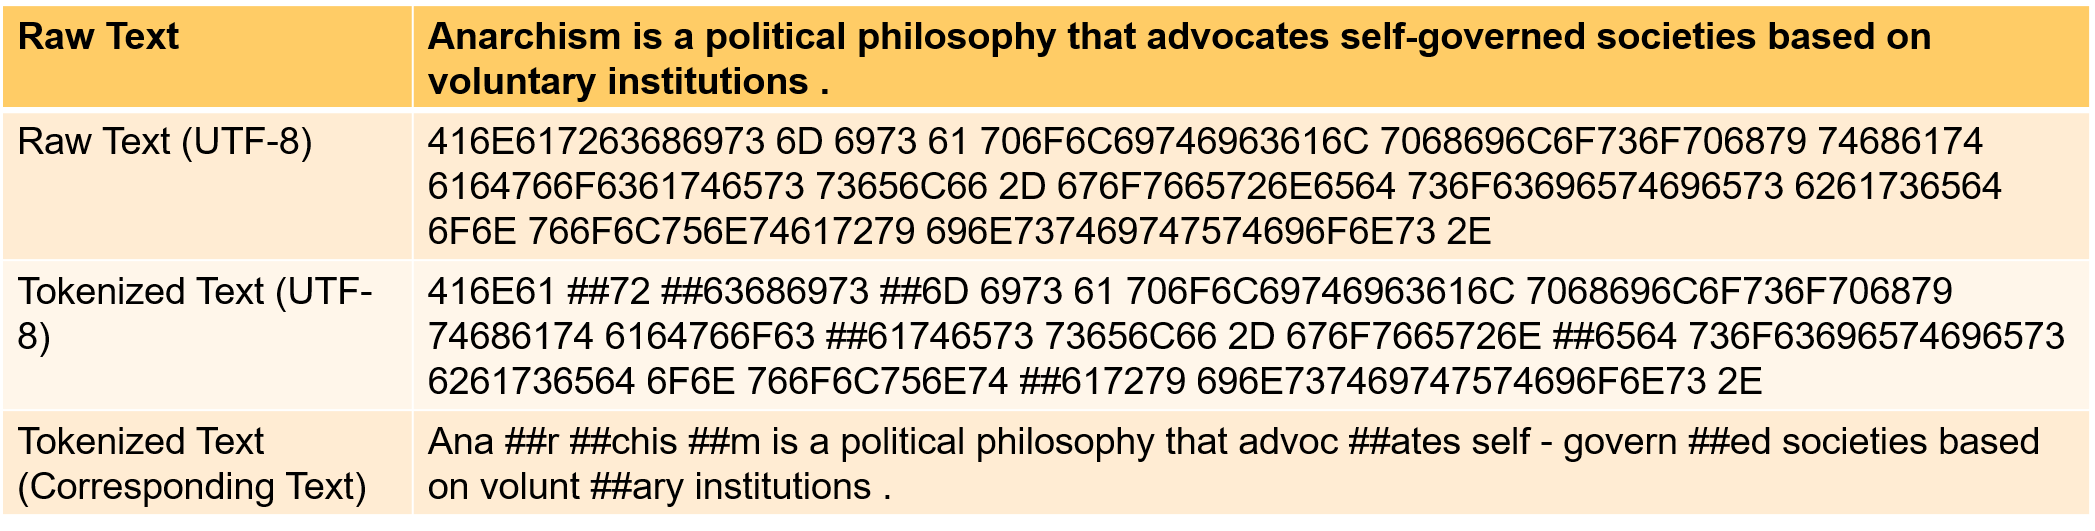
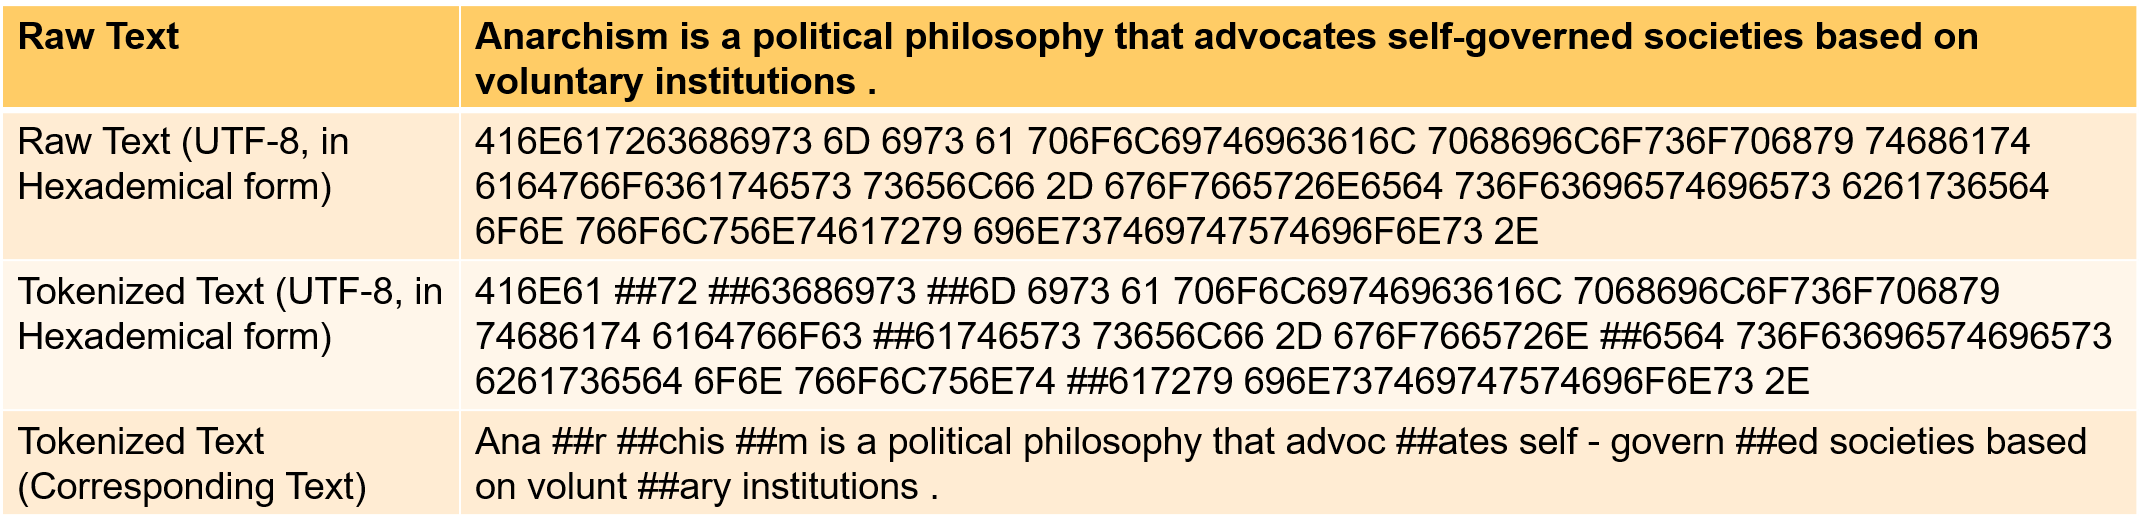
Add files via upload

diff --git a/BBPE/tokenizationBBPE.py b/BBPE/tokenizationBBPE.py
@@ -311,7 +311,7 @@ class BasicTokenizer(object):
     # and generally don't have any Chinese data in them (there are Chinese
     # characters in the vocabulary because Wikipedia does have some Chinese
     # words in the English Wikipedia.).
-    text = self._tokenize_chinese_chars(text)
+    if self.CJK_tokenize == False: text = self._tokenize_chinese_chars(text)
 
     orig_tokens = whitespace_tokenize(text)
     split_tokens = []

diff --git a/BBPE/README.md b/BBPE/README.md
@@ -3,7 +3,10 @@
 
 ## Introduction
 
-In this project, we provide a byte-level vocabulary building tool and its correspoinding tokenizer. We employed a technique, namely Byte-Level Byte Pair Encoding (BBPE) in building the vocabulary. Specifically, this BBPE first converts the text into its corresponding UTF-8 codes and then applies \emph{Byte Pair Encoding (BPE)} on the UTF-8 codes. There are strong experimental evidences showing that building the multilingual vocabulary in a byte-level will largely encourage the sharing of subwords among different words in a fine-grain, as a result of which, the learning of the representations of rare words could be improved. To intuitively give an idea of this BBPE, we demonstrate an example in the figure. In this figure, there are four lines which correspond to the raw text, the UTF-8 encoding of the text, the tokenized UTF-8 encoidng of the text and the corresponding text of the tokenized UTF-8 encoding, respectively. Each word contains several characters and we convert each character into bytes and preserve the boundary of each word (i.e., whitespace). By applying BPE to the UTF-8 encoding of the text, we obain a byte-level vocabulary. The tokenization using the vocabulary is shown in the third line and the last line shows the corresponding text of the tokenized UTF-8 encoding. Note that the symbol "##" denotes the subword is an trailing subword (i.e., the subword is not in beginning of the word it belongs to). 
+In this project, we provide a byte-level vocabulary building tool and its correspoinding tokenizer. We employed a technique, namely Byte-Level Byte Pair Encoding (BBPE) in building the vocabulary. Specifically, this BBPE first converts the text into its corresponding UTF-8 codes and then applies Byte Pair Encoding (BPE) on the UTF-8 codes. There are strong experimental evidences showing that building the multilingual vocabulary in a byte-level will largely encourage the sharing of subwords among different words in a fine-grain, as a result of which, the learning of the representations of rare words could be improved. To intuitively give an idea of this BBPE, we demonstrate an example in the figure example.png. In this figure, there are four lines which correspond to the raw text, the UTF-8 encoding of the text, the tokenized UTF-8 encoidng of the text and the corresponding text of the tokenized UTF-8 encoding, respectively. Each word contains several characters and we convert each character into bytes and preserve the boundary of each word (i.e., whitespace). By applying BPE to the UTF-8 encoding of the text, we obain a byte-level vocabulary. The tokenization using the vocabulary is shown in the third line and the last line shows the corresponding text of the tokenized UTF-8 encoding. Note that the symbol "##" denotes the subword is an trailing subword (i.e., the subword is not in beginning of the word it belongs to). We refer the readers to our technical report for more details (https://arxiv.org/abs/2101.09469).
+
+<img src="example.png" width="1000" height="320"/>
+<br />
 
 This project contains two parts: A. BBPE vocabulary building B. byte-level tokenizer
 
@@ -16,16 +19,19 @@ unzip bbbp.zip and go to the folder bbpe and perform the following steps.
 
 * the step converts raw text into its corresponding UTF-8 codes and assumes that the raw text files are under the folder 'MTData' and the converted files are under the folder 'MTData_byte'. The converted files will be used to build the vocabulary. Under the folder, there is a file 'protectList.tx' which contains several protected words such as '=NUMBER='，'=QUANTIFIER='. And these protected words will not be involved in building the vocabulary. Users may customerize the protectList.txt by themselves. The commands of this step are as follows. 
 
+```
 mkdir MTData_byte
 
 bash text2utf-8-mt-byte.sh
+```
 
-* Note: the above source codes assume that the Chinese, Korean and Japanese text is in their natural format without any word boundary information (i.e., we assume that there is no whitespace on the boudary of each words). If your Chinese, Korean and Japanese text is tokenizied (i.e., each word has whitespaces on its boundary), please change the code 'if len(getCJK(token)) > 0 or len(getPunc(token)) > 0: ' in line 132 and line 156 in utf-8-mt-byte.py to be 'if len(getPunc(token)) > 0: '.
+* Note: the above source codes assume that the Chinese, Korean and Japanese text is in their natural format without any word boundary information (i.e., we assume that there is no whitespace on the boudary of each words). If your Chinese, Korean and Japanese text is tokenizied (i.e., each word has whitespaces on its boundary), please change the code 'if len(getCJK(token)) > 0 or len(getPunc(token)) > 0: ' in both line 132 and line 156 in utf-8-mt-byte.py to be 'if len(getPunc(token)) > 0: '.
 
 ### Step 2: byte-level BPE
 
 * The commands of this step are as follows. 
 
+```
 cat MTData_byte/* > MTData_byte.txt
 
 cd fastBPE-master
@@ -33,26 +39,35 @@ cd fastBPE-master
 g++ -std=c++11 -pthread -O3 fastBPE/main.cc -IfastBPE -o fast
 
 ./fast learnbpe 40000 ../MTData_byte.txt > vocab_bytes.txt
+```
 
-Here we use fastBPE as our underlining BPE tool and please download the tool and put the compiled file 'fast' under the folder fastBPE-master（please refer https://en.wikipedia.org/wiki/Byte_pair_encoding to the details of BPE）
+Here we use fastBPE (https://pypi.org/project/fastBPE/) as our underlining BPE tool and please download the tool and put the compiled file 'fast' under the folder fastBPE-master（please refer https://en.wikipedia.org/wiki/Byte_pair_encoding to the details of BPE）
+
+* Note: By default, the tool fastBPE will insert a special symbol "</w>" in the end of each word but our BBPE tool does not need that symbol. Thus, please replace the symbol "</w>" with "" in the source code of fastBPE. 
 
 ### Step 3: vocabulary postprocessing
 
 * the following command converts the bytes in the vocabulary to their corresponding hexadecimal digits for the better readability. 
 
+```
 cat vocab_bytes.txt | python3 vocab_byteTo16base.py vocab_byteTo16base.txt
 
 cd ..
+```
 
 * the following command inserts single-byte characters into the vocabulary 
 
+```
 python3 mergeVocab.py charVocab.txt fastBPE-master/vocab_byteTo16base.txt ./vocab_utf8.txt
+```
 
 * the following command sort the vocabulary by the frequency and outputs two files: vocab_byte_display.txt and vocab_bpe.txt。
 
+```
 cat vocab_utf8.txt | python3 map_freq.py vocab_bbpe_display.txt vocab_bbpe.txt
+```
 
-Each the file vocab_bbpe_display.txt corresponds a subword (i.e., a token) in the vocabulary and each line has 3 columns: UTF-8 codes in hexadecimal digits of the subword | the corresponding raw text of the subword (if it has no corresponding raw text, we simply display '0x' + this subword) | frequency of the subword. vocab_bbpe.txt has only one culumn which is the same as the first column of vocab_bbpe_display.txt. 
+Each line in the file vocab_bbpe_display.txt corresponds to a subword (i.e., a token) in the vocabulary and each line has 3 columns: UTF-8 codes in hexadecimal digits of the subword | the corresponding raw text of the subword (if it has no corresponding raw text, we simply display '0x' + this subword) | frequency of the subword. vocab_bbpe.txt has only one culumn which is the same as the first column of vocab_bbpe_display.txt. 
 
 The file vocab_bbpe.txt is the final BBPE vocabulary which could be used in our tokenizer. And the file vocab_bbpe_display.txt is for your checking of the correctness. 
 
@@ -65,13 +80,30 @@ The file vocab_bbpe.txt is the final BBPE vocabulary which could be used in our 
 
 * usage：
 
+```
 import tokenizationBBPE as tokenization
 
 tokenizer = tokenization.FullTokenizer(
-      vocab_file=vocab_file, do_lower_case=False)
+      vocab_file=vocab_file, do_lower_case=False, CJK_tokenize=True)
 
 tokens = tokenizer.tokenize(line)
+```
 
-* the vocab_file is the BBPE vocabulary, do_lower_case is a boolean variable (the input text will be converted into lower-case character if it is set to be true).
+* the vocab_file is the BBPE vocabulary, do_lower_case is a boolean variable (the input text will be converted into lower-case character if it is set to be true) and CJK_tokenizer is also a boolean variable. If it is False, we will insert a whitespace before and after each input CJK (i.e., Chinese, Japanese and Korean) character in the text before the tokenization. As such, each output token will contain at most one CJK character. If it is True, then we feed the original text to the tokenizer and each output token could contain one or more CJK characters (e.g., E58D97E58C97 which corresponds to "南北"). 
 
 * tokenization.printable_text_byte(x) could convert a UTF-8 code in hexadecimal digits of the subword such as 426168617361 into its corresponding raw text, in this example, the correspondig raw text is Bahasa. Thus, the function could be used to check the corresponding raw text of the tokenization results. 
+
+## Reference
+Junqiu Wei and Qun Liu and Yinpeng Guo and Xin Jiang.
+[Training Multilingual Pre-trained Language Model with Byte-level Subwords](https://arxiv.org/abs/2004.04037).
+
+```
+@misc{wei2021training,
+    title={Training Multilingual Pre-trained Language Model with Byte-level Subwords},
+    author={Junqiu Wei and Qun Liu and Yinpeng Guo and Xin Jiang},
+    year={2021},
+    eprint={2101.09469},
+    archivePrefix={arXiv},
+    primaryClass={cs.CL}
+}
+```
